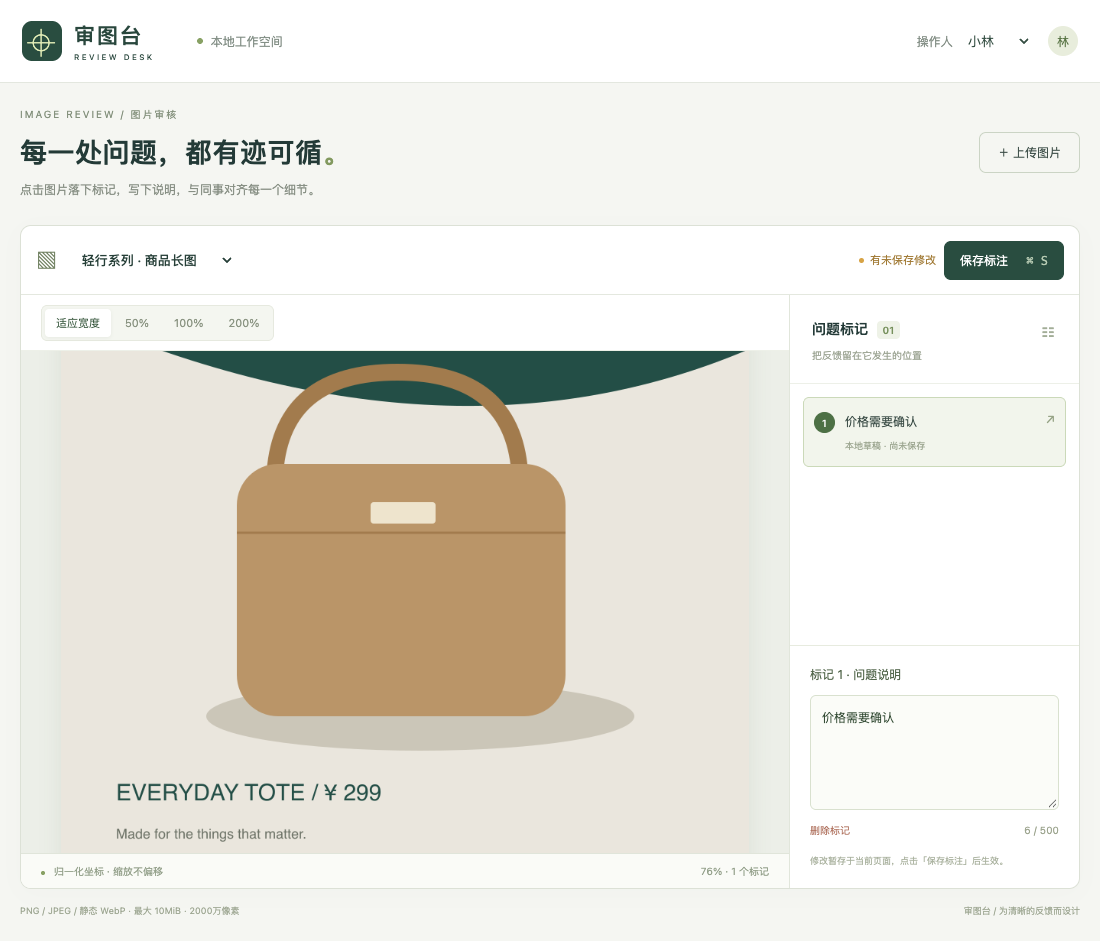
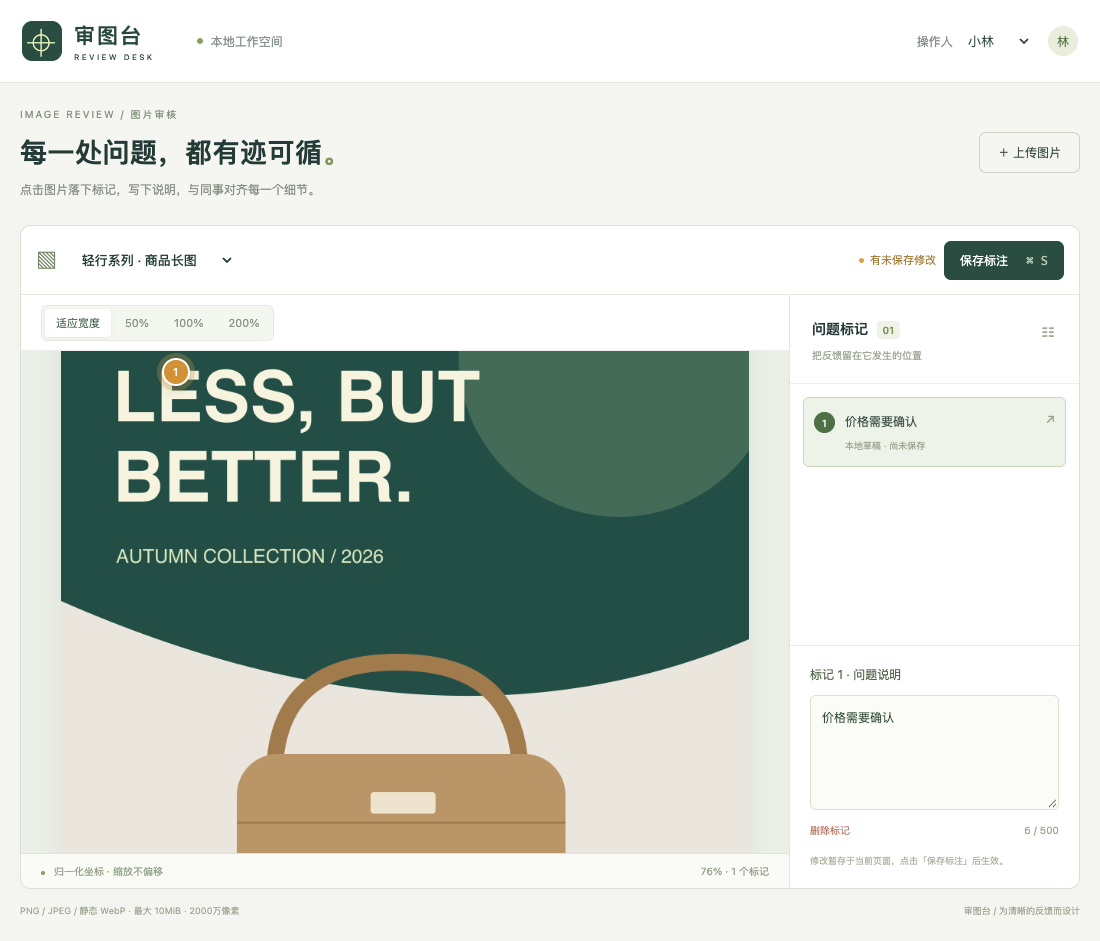
docs: record clean clone verification and reproducible failure evidence

Changed region(s): [[0.0309, 0.3698, 0.68, 0.9245]]

diff --git a/docs/verification/RESULTS.md b/docs/verification/RESULTS.md
@@ -49,4 +49,6 @@ npm run test:e2e -- --grep '主动注入500'
 
 ## 安装与远程交付
 
-干净目录复验和远程推送结果将在实际执行后补充。GitHub网页公开访问HTTP 200，远程读取无分支，确认初始为空仓库。仓库链接由用户提供；本次聊天已回复链接，不声称已替用户向作业接收方发送消息。
+2026-10-31 在无 node_modules、无数据库的干净本地克隆中复验，`npm ci`（使用本机 npm 下载缓存，约2秒）、初始化、类型检查、25项单元/集成测试、生产构建、文件库重启验证、8项浏览器测试全部通过。完整输出见 [干净克隆日志](clean-run.log)。这是同机干净克隆验证，不代表已在另一台机器或Linux上执行。复现命令为 `node scripts/verify-clean.mjs`，它验证当前已提交的代码，默认使用本机Chrome；可通过 `E2E_BROWSER_CHANNEL` 选择已安装的Playwright浏览器。
+
+远程推送结果以最终提交说明和远程分支核对为准。GitHub网页公开访问HTTP 200，远程读取无分支，确认初始为空仓库。仓库链接由用户提供；本次聊天已回复链接，不声称已替用户向作业接收方发送消息。

diff --git a/SUBMISSION.md b/SUBMISSION.md
@@ -44,3 +44,7 @@
 - 冲突复制只复制可读的说明与坐标，不包含完整服务端历史；不支持一键导回。
 - 同步 BLOB 写入及整图重写适用于本地小规模审核；需要多人生产使用时应再评估队列、备份及并发方案。
 - 仓库可访问性、远程推送结果及执行环境限制以验证记录为准。
+
+## 实际验收结果
+
+2026-10-31 干净克隆验证：npm ci、初始化、类型检查、25项单元/集成测试、构建、生产服务重启恢复、8项浏览器测试全部通过。依赖审计0项漏洞。浏览器使用本机Chrome的临时独立配置；Linux/Node24远程CI尚需查看GitHub实际运行结果。完整记录及真实开发失败见 [RESULTS.md](docs/verification/RESULTS.md) 和 [clean-run.log](docs/verification/clean-run.log)。

diff --git a/README.md b/README.md
@@ -74,3 +74,5 @@ npm run test:e2e -- --grep '主动注入500'
 - Chromium 缺失：先执行 `npx playwright install chromium`。
 - 页面显示无法连接服务：开发模式检查 API 3001 进程；生产先构建再 `npm start`。
 - 本地草稿在刷新/关闭时可能丢失；退出提醒无法保证浏览器崩溃时恢复，请显式保存。数据库备份应在服务关闭后复制 SQLite 文件，或使用 SQLite 备份工具。
+
+完整干净克隆验证：提交当前改动后运行 `node scripts/verify-clean.mjs`。脚本创建无依赖、无数据库的临时克隆并运行安装和完整验证，默认要求本机 Chrome，可用 `E2E_BROWSER_CHANNEL=chromium` 选择已安装的 Playwright Chromium。原始日志见 [clean-run.log](docs/verification/clean-run.log)。
